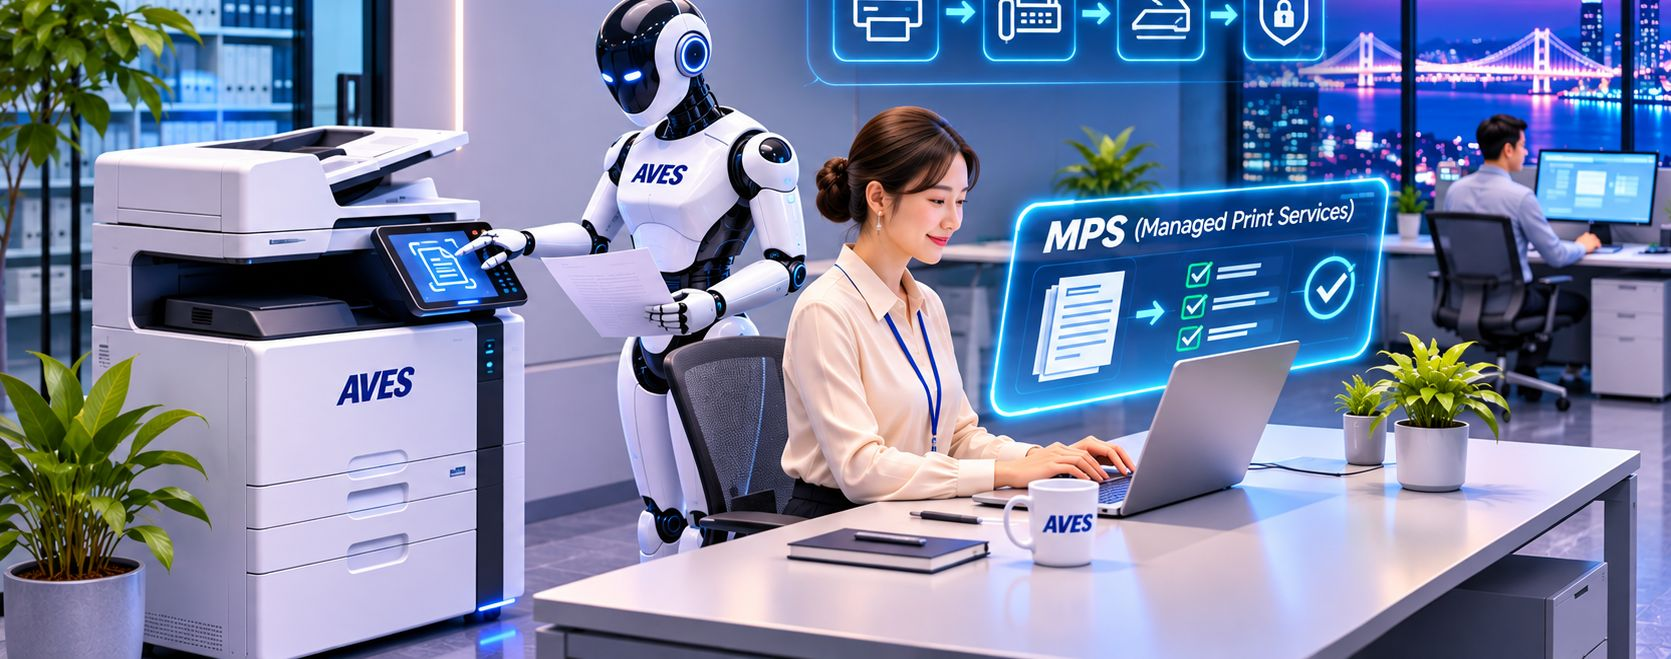
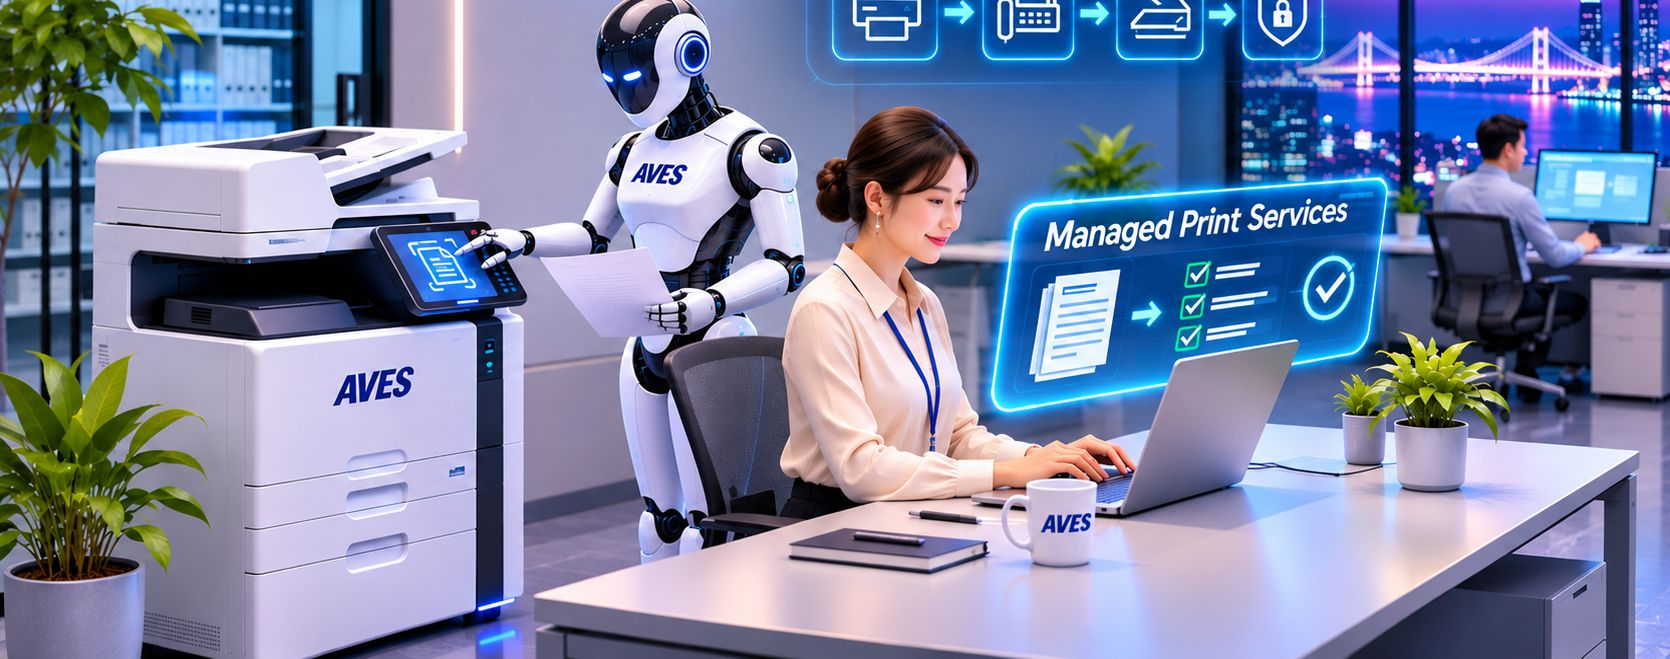
히어로 첫 장 이미지 교체
패널 문구가 "MPS (Managed Print Services)" 에서 "Managed Print
Services" 로 바뀐 시안으로 갈아끼웠다. 약어 없이 한 줄이라 작은
크기에서도 읽힌다.

- 1670x941 원본을 같은 자리(위 30%)에서 잘라 1670x659
  두 장의 구도가 계속 겹치므로 전환할 때 패널 문구만 바뀌어 보인다.
- 가로가 1671 -> 1670 으로 1픽셀 줄어 width 속성도 맞췄다.

diff --git a/index.html b/index.html
@@ -292,7 +292,7 @@ footer{background:var(--navy);color:#94A9C6;padding:56px 0 26px;font-size:14px}
     <picture>
       <source srcset="office-band.webp" type="image/webp">
       <img src="office-band.jpg" alt="AVES 복합기가 놓인 부산 사무실에서 직원이 노트북으로 문서 업무를 보는 모습"
-           width="1671" height="659" fetchpriority="high" decoding="async">
+           width="1670" height="659" fetchpriority="high" decoding="async">
     </picture>
     <picture class="s2">
       <source srcset="office-band2.webp" type="image/webp">

diff --git a/README.md b/README.md
@@ -14,7 +14,7 @@ AI 플랫폼(AIRS, airental.co.kr)은 별도 저장소 `airental-landing`에 있
 | `aves-logo.png` | 남색 로고 894x150 — 헤더용 (AVES + Business Solution) |
 | `aves-logo-white.png` | 흰색 로고 894x150 — 푸터용 |
 | `favicon.png` | 워드마크의 A 글자 128x128 |
-| `office-band.webp` / `.jpg` | 히어로 이미지 1 — MPS (WebP 우선) |
+| `office-band.webp` / `.jpg` | 히어로 이미지 1 — Managed Print Services (WebP 우선) |
 | `office-band2.webp` / `.jpg` | 히어로 이미지 2 — IDP. 3초마다 교차 |
 | `mfp-1..9.webp` / `.png` | 복합기 외장 디자인 9종 (WebP 우선, PNG 폴백) |
 
